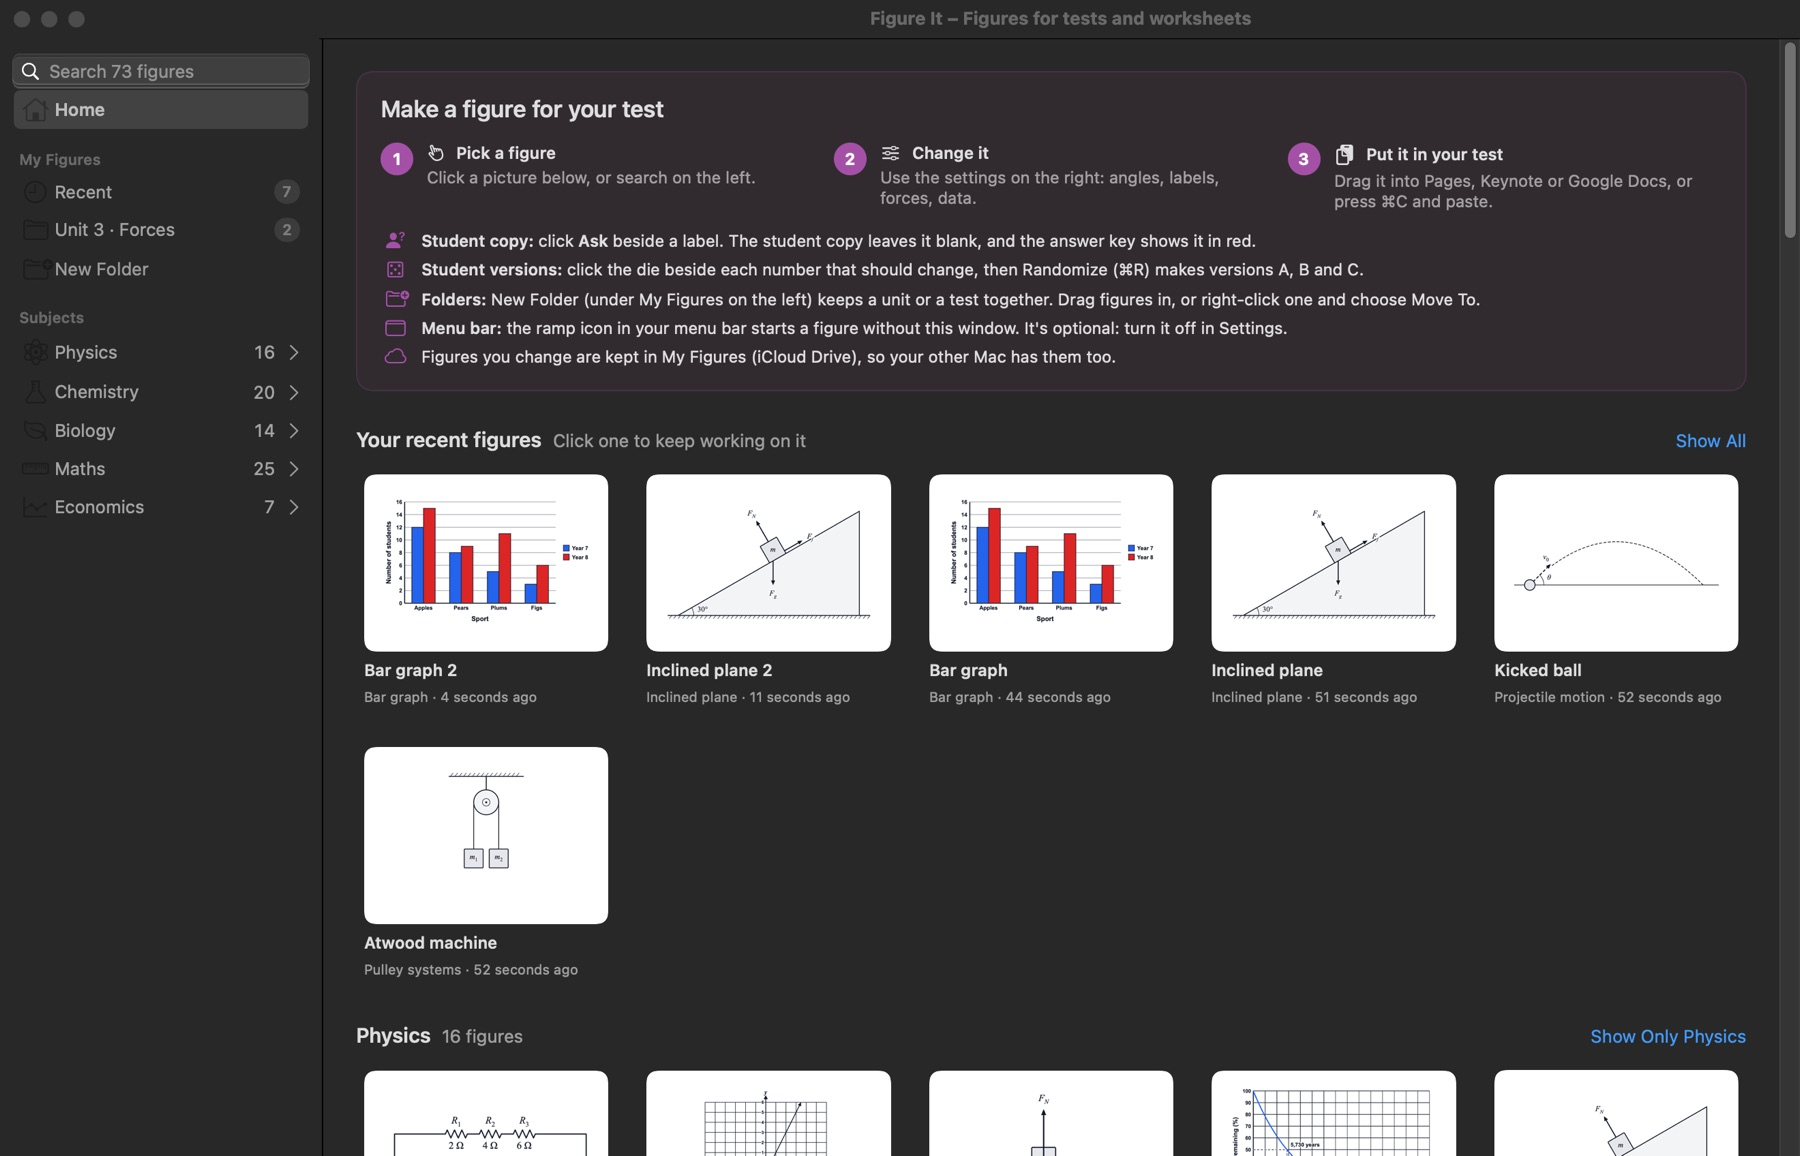
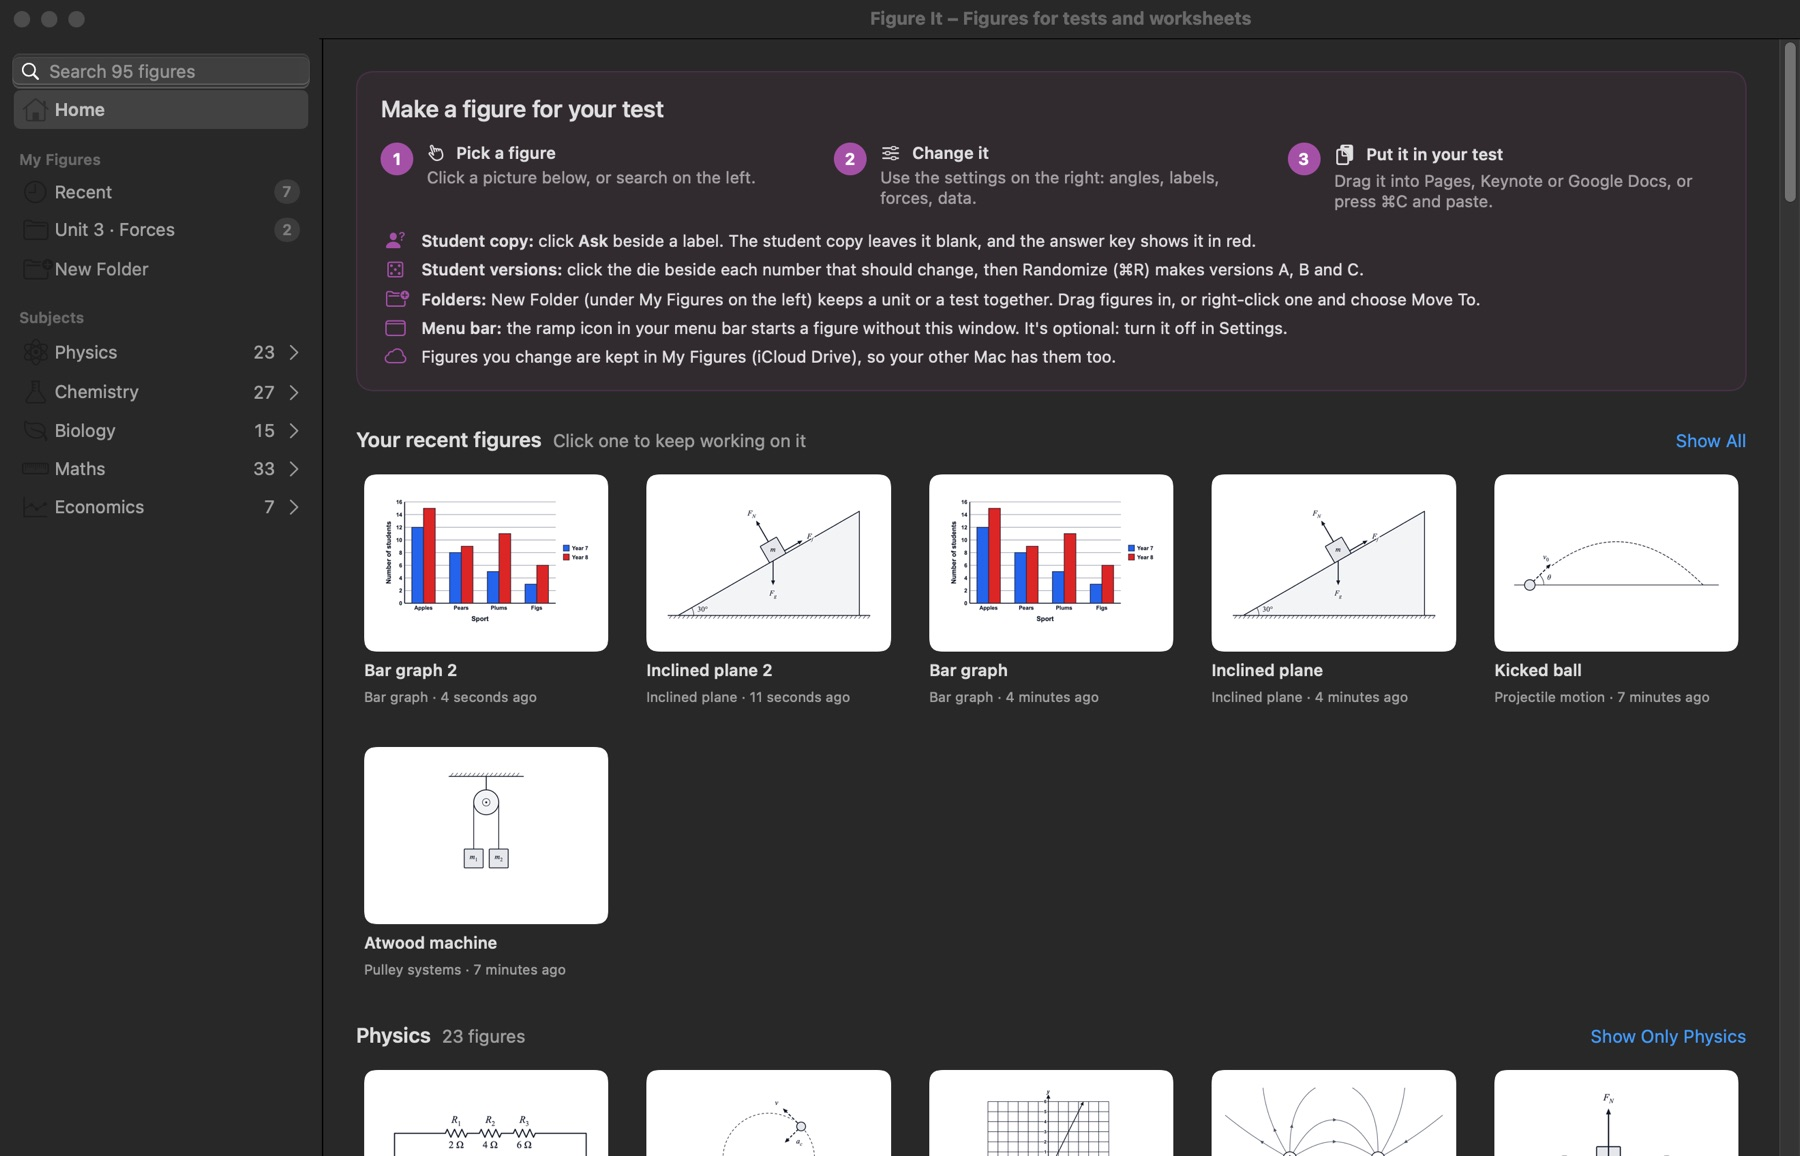
Publish Figure It 1.0.0

diff --git a/apps/figureit/index.html b/apps/figureit/index.html
@@ -4,9 +4,9 @@
 <meta charset="utf-8">
 <meta name="viewport" content="width=device-width, initial-scale=1">
 <title>Figure It · ExplAIn Sims · Mac apps</title>
-<meta name="description" content="73 figures for Physics, Chemistry, Biology, Maths and Economics. Change the numbers and labels, make a student copy and an answer key, make versions A, B and C, then drag the figure into Pages, Keynote or Google Docs.">
+<meta name="description" content="95 figures for Physics, Chemistry, Biology, Maths and Economics. Change the numbers and labels, make a student copy and an answer key, make versions A, B and C, then drag the figure into Pages, Keynote or Google Docs.">
 <meta property="og:title" content="Figure It · ExplAIn Sims · Mac apps">
-<meta property="og:description" content="73 figures for Physics, Chemistry, Biology, Maths and Economics. Change the numbers and labels, make a student copy and an answer key, make versions A, B and C, then drag the figure into Pages, Keynote or Google Docs.">
+<meta property="og:description" content="95 figures for Physics, Chemistry, Biology, Maths and Economics. Change the numbers and labels, make a student copy and an answer key, make versions A, B and C, then drag the figure into Pages, Keynote or Google Docs.">
 <meta property="og:url" content="https://store.explainsims.com/apps/figureit/">
 <meta property="og:type" content="website">
 <meta property="og:image" content="https://store.explainsims.com/shots/figureit/1-light.jpg">
@@ -116,17 +116,17 @@ ol.rm .n{flex:none;width:24px;height:24px;border-radius:12px;display:grid;place-
   <a class="back" href="../../#apps">&#8249; All apps</a>
   <header class="apphead"><img class="icon" src="../../icons/figureit.png" alt="" width="128" height="128">
     <div><h1>Figure It<span class="elig new" data-added="2026-11-08T14:07:22Z" hidden>New</span></h1>
-    <p class="sum">73 figures for Physics, Chemistry, Biology, Maths and Economics. Change the numbers and labels, make a student copy and an answer key, make versions A, B and C, then drag the figure into Pages, Keynote or Google Docs.</p>
+    <p class="sum">95 figures for Physics, Chemistry, Biology, Maths and Economics. Change the numbers and labels, make a student copy and an answer key, make versions A, B and C, then drag the figure into Pages, Keynote or Google Docs.</p>
     
-    <div class="acts"><a class="btn primary big" href="https://github.com/explainsims/store/releases/download/figureit-0.5.11/Figure-It-0.5.11.zip">Download</a><small>0.5.11 · 5.4 MB · free</small><a href="#feedback"><svg width="14" height="14" viewBox="0 0 15 15" fill="none" stroke="currentColor" stroke-width="1.4" stroke-linejoin="round" aria-hidden="true"><path d="M2.2 3.6c0-.9.7-1.6 1.6-1.6h7.4c.9 0 1.6.7 1.6 1.6v5.2c0 .9-.7 1.6-1.6 1.6H6.4L3.6 12.8v-2.4c-.8 0-1.4-.7-1.4-1.6z"/></svg>Send Feedback</a></div>
+    <div class="acts"><a class="btn primary big" href="https://github.com/explainsims/store/releases/download/figureit-1.0.0/Figure-It-1.0.0.zip">Download</a><small>1.0.0 · 5.7 MB · free</small><a href="#feedback"><svg width="14" height="14" viewBox="0 0 15 15" fill="none" stroke="currentColor" stroke-width="1.4" stroke-linejoin="round" aria-hidden="true"><path d="M2.2 3.6c0-.9.7-1.6 1.6-1.6h7.4c.9 0 1.6.7 1.6 1.6v5.2c0 .9-.7 1.6-1.6 1.6H6.4L3.6 12.8v-2.4c-.8 0-1.4-.7-1.4-1.6z"/></svg>Send Feedback</a></div>
     <p class="tip">Or get <a href="../../apps/storefront/">Storefront</a>: it installs Figure It in one click, skips the Open Anyway step, and keeps it up to date.</p></div>
   </header>
   <section class="facts" aria-label="Facts">
-    <div><small>Version</small><b>0.5.11</b><i>latest</i></div>
-    <div><small>Size</small><b>5.4 MB</b><i>download</i></div>
+    <div><small>Version</small><b>1.0.0</b><i>latest</i></div>
+    <div><small>Size</small><b>5.7 MB</b><i>download</i></div>
     <div><small>Needs</small><b>macOS 14</b><i>or later</i></div>
     <div><small>Chip</small><b>Any Mac</b><i>Apple silicon and Intel</i></div>
-    <div><small>Updated</small><b>13 Nov</b><i>2026</i></div>
+    <div><small>Updated</small><b>25 Nov</b><i>2026</i></div>
   </section>
   <section class="shots">
   <div class="sh"><h2>Screenshots</h2><div class="seg" role="group" aria-label="Appearance"><button type="button" data-mode="light" aria-pressed="true">Light</button><button type="button" data-mode="dark" aria-pressed="false">Dark</button></div></div>
@@ -134,7 +134,7 @@ ol.rm .n{flex:none;width:24px;height:24px;border-radius:12px;display:grid;place-
 </section>
 <dialog class="lightbox" aria-label="Screenshot"><img alt=""><button type="button" class="lb prev" aria-label="Previous">&#8249;</button><button type="button" class="lb next" aria-label="Next">&#8250;</button><button type="button" class="lb x" aria-label="Close">&times;</button></dialog>
   <section class="cols">
-    <div><h2>What's new in 0.5.11</h2><ul><li>Coordinate grid: number an axis in π radians or degrees, with gridlines every π/6, π/4, π/3, π/2 or π for trig graphs. Fractions and π on the axes are stacked (3π over 2) so they never run into each other.</li></ul></div>
+    <div><h2>What's new in 1.0.0</h2><ul><li>22 new figures: VSEPR shapes, electrochemical cells, rate law and equilibrium graphs, phase diagrams, bond energy curves, chromatography, electric and magnetic fields, circular motion, torque, levers, pendulums, springs, roller coasters, cladograms, tree diagrams, scatter and dot plots, normal curves, tables of values, nets and segment addition. Type a cladogram's own tree and a tree diagram's probabilities.</li></ul></div>
     <div><h2>Good to know</h2><dl class="kv"><dt>Licence</dt><dd>MIT, with teacher.dev's Apache-2.0 figure generators</dd><dt>Read Me</dt><dd><a href="readme.html">How to use Figure It</a></dd><dt>First open</dt><dd>macOS asks you to allow it once, under System Settings › Privacy &amp; Security › Open Anyway. Apps installed through Storefront skip that.</dd></dl></div>
   </section>
   <section class="fbcard" id="feedback"><div class="fbtop"><h2>Send feedback about Figure It</h2><span class="priv"><svg width="12" height="12" viewBox="0 0 12 12" fill="none" stroke="currentColor" stroke-width="1.5" aria-hidden="true"><rect x="2" y="5.2" width="8" height="5.6" rx="1.4"/><path d="M3.8 5.2V3.8a2.2 2.2 0 0 1 4.4 0v1.4"/></svg>Private and anonymous</span></div>

diff --git a/index.html b/index.html
@@ -137,9 +137,9 @@ ol.rm .n{flex:none;width:24px;height:24px;border-radius:12px;display:grid;place-
 <article class="app" id="equate" data-kind="menubar" data-text="equate snip any equation, paste it as latex, word or google docs maths. press ⌃⌥e and drag round an equation in a pdf, a web page or a picture. equate reads it on your mac and puts it on the clipboard in the best form for the app you're in: a real equation in word and google docs, a sharp picture in pages and keynote, latex everywhere else. it also reads pdfs, iphone photos of the whiteboard and equations you write on the trackpad, and keeps a history. no account, no limit, nothing uploaded. mathpix snipping tool menu bar"><img class="icon" src="icons/equate.png" alt="" width="64" height="64" loading="lazy">
   <div class="t"><h3><a class="cover" href="apps/equate/">Equate</a><span class="elig new" data-added="2026-11-13T23:24:23Z" hidden>New</span></h3><p class="tag">Snip any equation, paste it as LaTeX, Word or Google Docs maths.</p><small>1.0.1 · 273.9 MB</small></div>
   <a class="btn get" href="https://github.com/explainsims/store/releases/download/equate-1.0.1/Equate-1.0.1.zip" aria-label="Download Equate">Download</a></article>
-<article class="app" id="figureit" data-kind="tools" data-text="figure it figures for tests and worksheets, with student copies and answer keys. 73 figures for physics, chemistry, biology, maths and economics. change the numbers and labels, make a student copy and an answer key, make versions a, b and c, then drag the figure into pages, keynote or google docs.  tools"><img class="icon" src="icons/figureit.png" alt="" width="64" height="64" loading="lazy">
-  <div class="t"><h3><a class="cover" href="apps/figureit/">Figure It</a><span class="elig new" data-added="2026-11-08T14:07:22Z" hidden>New</span></h3><p class="tag">Figures for tests and worksheets, with student copies and answer keys.</p><small>0.5.11 · 5.4 MB</small></div>
-  <a class="btn get" href="https://github.com/explainsims/store/releases/download/figureit-0.5.11/Figure-It-0.5.11.zip" aria-label="Download Figure It">Download</a></article>
+<article class="app" id="figureit" data-kind="tools" data-text="figure it figures for tests and worksheets, with student copies and answer keys. 95 figures for physics, chemistry, biology, maths and economics. change the numbers and labels, make a student copy and an answer key, make versions a, b and c, then drag the figure into pages, keynote or google docs.  tools"><img class="icon" src="icons/figureit.png" alt="" width="64" height="64" loading="lazy">
+  <div class="t"><h3><a class="cover" href="apps/figureit/">Figure It</a><span class="elig new" data-added="2026-11-08T14:07:22Z" hidden>New</span></h3><p class="tag">Figures for tests and worksheets, with student copies and answer keys.</p><small>1.0.0 · 5.7 MB</small></div>
+  <a class="btn get" href="https://github.com/explainsims/store/releases/download/figureit-1.0.0/Figure-It-1.0.0.zip" aria-label="Download Figure It">Download</a></article>
 <article class="app" id="footprints" data-kind="tools" data-text="footprints see how a google doc was written. open any google doc you can edit and click the footprints button: watch the doc write itself again, with typed text, pastes from outside, moved text and text another student’s doc had first all marked, and see when the writer worked. make a one-page pdf report, or check every doc linked on a toddle assignment or drive folder at once, so a paragraph that turns up in two students’ docs shows who had it first. everything is worked out on your computer; nothing is sent anywhere. draftback and revision history tools"><img class="icon" src="icons/footprints.png" alt="" width="64" height="64" loading="lazy">
   <div class="t"><h3><a class="cover" href="apps/footprints/">Footprints</a><span class="elig new" data-added="2026-11-14T14:13:58Z" hidden>New</span></h3><p class="tag">See how a Google Doc was written.</p><small>1.0.1 · 1.9 MB</small></div>
   <a class="btn get" href="https://github.com/explainsims/store/releases/download/footprints-1.0.1/Footprints-1.0.1.zip" aria-label="Download Footprints">Download</a></article>

diff --git a/apps/figureit/readme.html b/apps/figureit/readme.html
@@ -115,9 +115,9 @@ ol.rm .n{flex:none;width:24px;height:24px;border-radius:12px;display:grid;place-
 <main class="page readme">
   <div class="rmtop"><a class="back" href="./">&#8249; Figure It</a><a href="../../readme/figureit.txt">Plain text</a></div>
   <header class="rmhead"><img class="icon" src="../../icons/figureit.png" alt="" width="64" height="64">
-    <div><h1>Read Me</h1><p>Figure It 0.5.11 · how to install and use it</p></div>
+    <div><h1>Read Me</h1><p>Figure It 1.0.0 · how to install and use it</p></div>
   </header>
-  <p class="lead">Figures for tests and worksheets: 73 of them, for Physics, Chemistry, Biology, Maths and Economics. Change the numbers and labels, make a student copy and an answer key, then drag the figure into Pages, Keynote or Google Docs.</p>
+  <p class="lead">Figures for tests and worksheets: 95 of them, for Physics, Chemistry, Biology, Maths and Economics. Change the numbers and labels, make a student copy and an answer key, then drag the figure into Pages, Keynote or Google Docs.</p>
 <h2>What's in this folder</h2>
 <ul class="rm"><li><b>Figure It.app:</b> the app</li><li><b>Install Figure It.command:</b> installs it (run this)</li><li><b>Read Me.txt:</b> this file</li></ul>
 <h2>Before you start</h2>
@@ -132,9 +132,9 @@ ol.rm .n{flex:none;width:24px;height:24px;border-radius:12px;display:grid;place-
 <p>My Figures Every figure you change is kept in My Figures, in iCloud Drive, so your other Mac has it too. Recent shows them all. New Folder (under My Figures) keeps a unit or a test together: drag figures in. Right-click a figure to rename, move or delete it; right-click a folder to rename or delete it. Select (or ⌘-click) picks several figures at once. A PDF, PNG or SVG made by Figure It opens again for editing: open it with Figure It, or drop it onto the figure area.</p>
 <p>Menu bar The ramp icon in the menu bar starts a figure, or drags a recent one into a document, without opening the window. Turn it off in Settings.</p>
 <p>Settings (⌘,) Your test's font, label size and line weight, so figures match the rest of the paper, and a keyboard shortcut for a quick figure.</p>
-<p>Figure It needs no special permissions and doesn't use the internet.</p>
+<p>Figure It needs no special permissions. It only goes online to check for updates.</p>
 <h2>Good to know</h2>
-<ul class="rm"><li><b>To update:</b> use Storefront, or unzip a newer copy and run its installer. It replaces the old one and keeps your figures and settings.</li><li><b>To uninstall:</b> quit Figure It and drag it from Applications to the Trash. Your figures stay in iCloud Drive › Figure It.</li><li>The figures come from teacher.dev's open-source figure generators (Apache License 2.0). Figure It itself is MIT licensed. The licences are inside the app (Contents/Resources).</li><li>Figure It is free and open source. It isn't from the App Store and isn't notarized by Apple, which is why macOS asks you to confirm it the first time.</li></ul>
+<ul class="rm"><li><b>To update:</b> choose Check for Updates… in the Figure It menu, use Storefront, or unzip a newer copy and run its installer. Each replaces the old one and keeps your figures and settings.</li><li><b>To uninstall:</b> quit Figure It and drag it from Applications to the Trash. Your figures stay in iCloud Drive › Figure It.</li><li>The figures come from teacher.dev's open-source figure generators (Apache License 2.0). Figure It itself is MIT licensed. The licences are inside the app (Contents/Resources).</li><li>Figure It is free and open source. It isn't from the App Store and isn't notarized by Apple, which is why macOS asks you to confirm it the first time.</li></ul>
 
   <p class="rmend"><a class="btn primary" href="./">Figure It in the store</a></p>
 </main>
